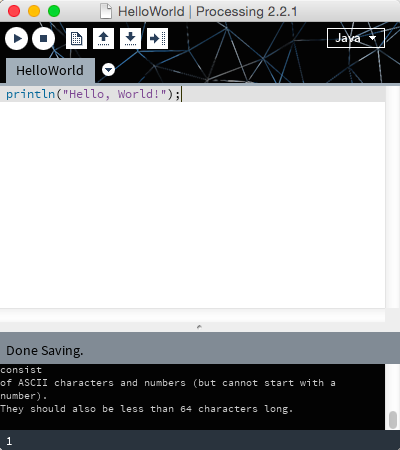
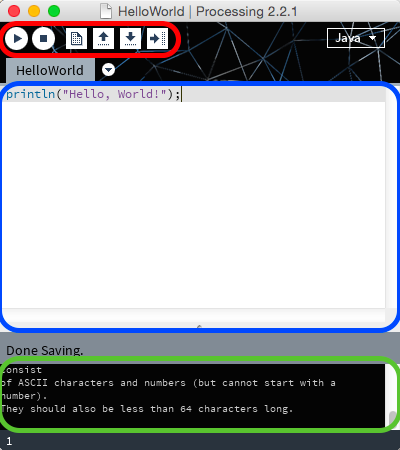
update

Changed region(s): [[0.0, 0.0311, 1.0, 0.7467], [0.0, 0.7778, 1.0, 0.9644]]

diff --git a/Processing/Tutorial/Let's draw!.html b/Processing/Tutorial/Let's draw!.html
@@ -34,10 +34,19 @@
 </p></br>
 <p>
 さあ！Processingに触れてみよう！</br>
-まずはProcessingをクリックして起動させてください。そしたら下のような感じ（ヴァージョンで違いがありますが、操作の仕方はとくに変わらないと思います）のがでてくるはずです。</br>
-<div align="center">
+まずはProcessingをクリックして起動させてください。そしたら下のような感じ（ヴァージョンで違いがありますが、操作の仕方はとくに変わらないと思います）のがでてくるはずです。
+</p>
+<p align="center">
 <img src="http://ryosukecla.github.io./img/tutorial0-0.png" width="400" height="450">
-</div>
+</p>
+<p>
+赤い四角で囲われている部分はプログラムを実行したりするところです。一番よく使うボタンは一番左の▶ボタンとその隣の■ボタンです。それぞれ、プログラムを実行するためと実行してあるプログラムを停止するために使います。</br>
+次に、青い四角で囲われている部分はプログラムを記入する部分です。他のテキストエディタを使用しない限りは、基本的にここにコードを書いていくことになります。この画像では、println("Hello, World!");と書いてある部分ですね。</br>
+最後に、緑色で囲われいる部分ですが、ここはコンソールと言われるところになります。print();またはprintln();を青い部分に書き、（）の中に文字を書いて、プログラムを実行すると、このコンソールと言われる部分に（）の中に書いた文字が表示されることになります。
+</p>
+<h3>では、さっそく何かを書いてみよう！</h3>
+<p>
+
 </p>
 </article>
 <p>  </p></br>
